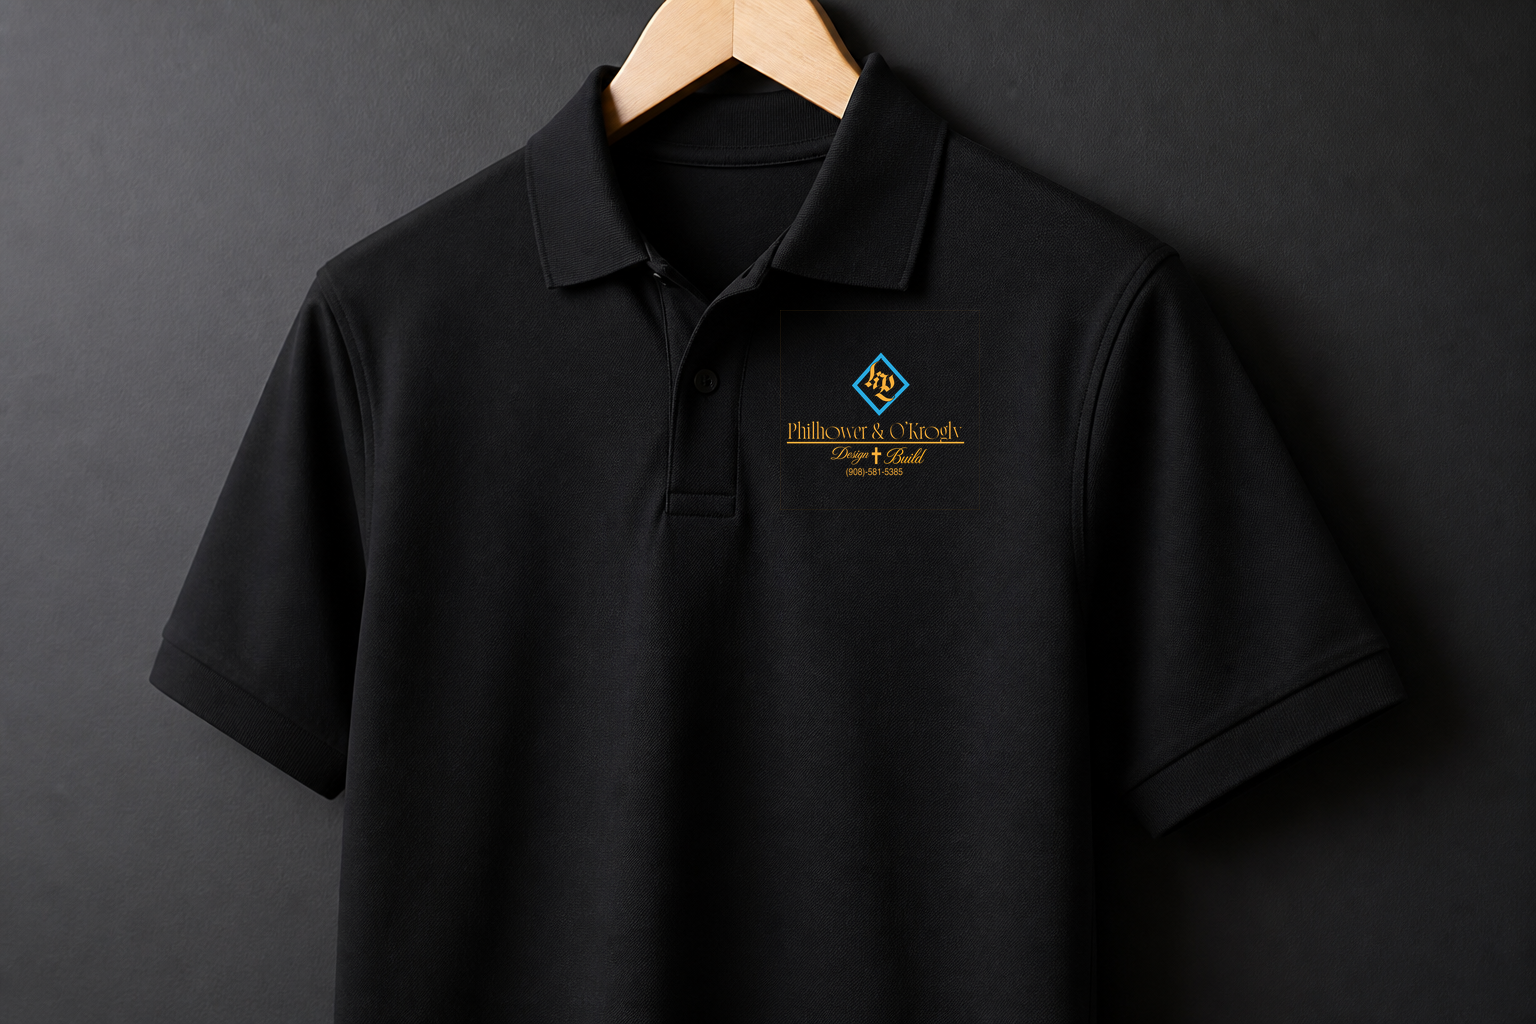
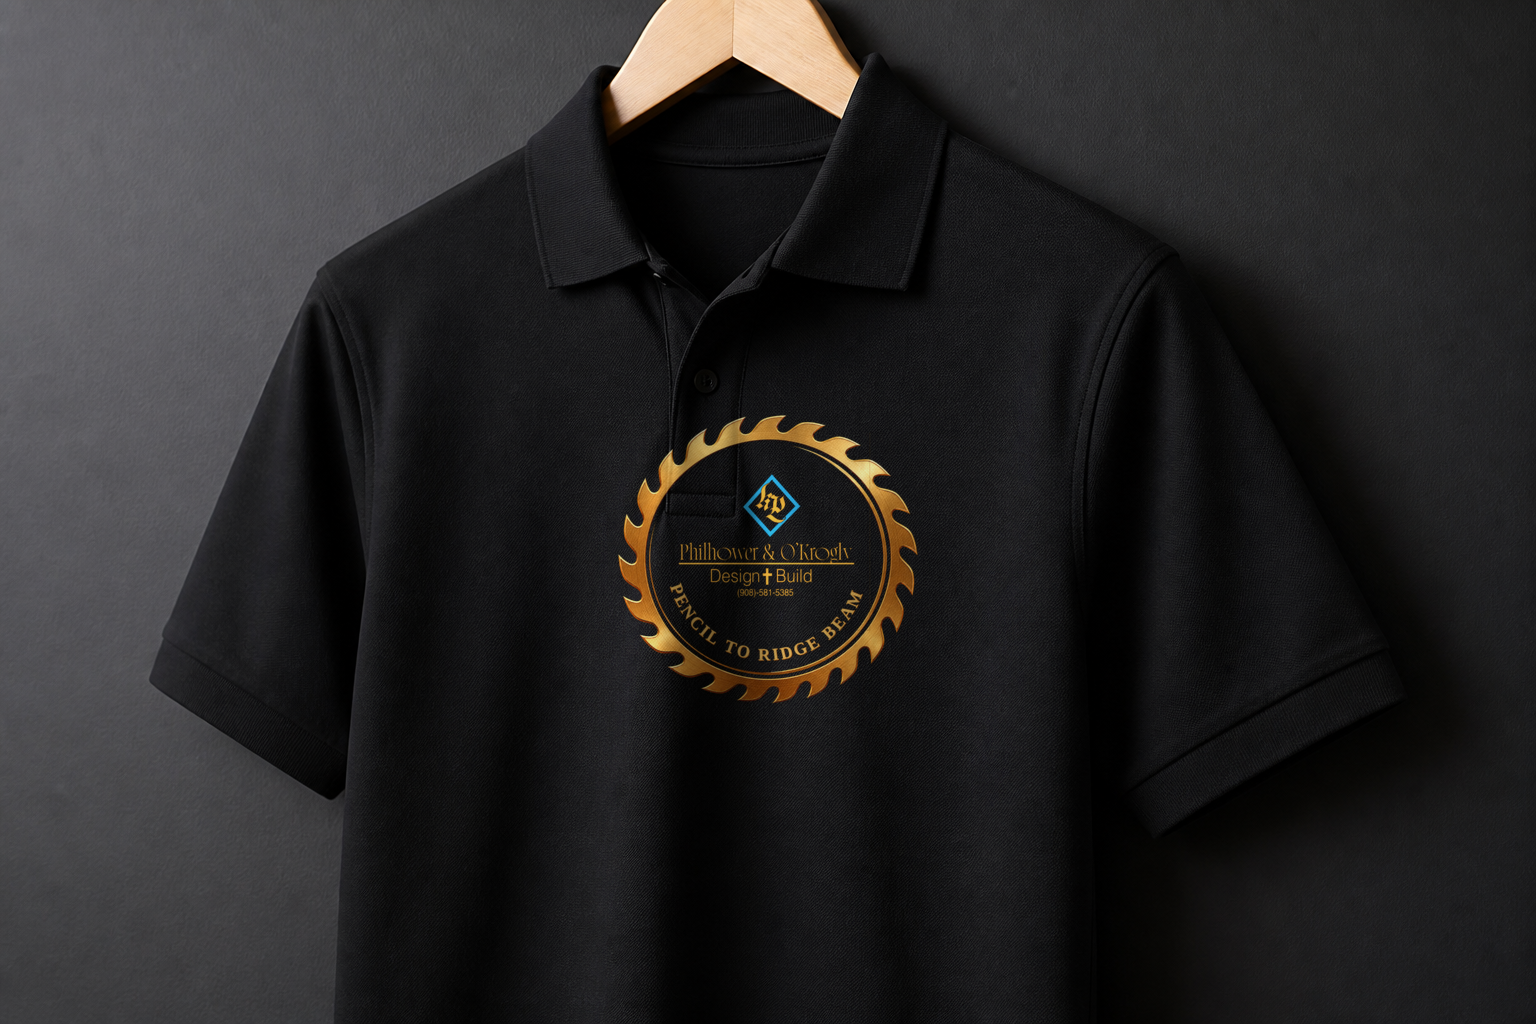
Put Pencil to ridge beam on the Philhower & O’Krogly lockup.
The Hills saw blade frames a larger embroidery stack, the tagline runs the inner ring, and the same file is centered on the polo, van, yard sign, cards, and magnet.

Changed region(s): [[0.4062, 0.3438, 0.625, 0.6875]]

diff --git a/dphilhower-studio-wp/preview/work/philhower-okrogly/index.html b/dphilhower-studio-wp/preview/work/philhower-okrogly/index.html
@@ -4,7 +4,7 @@
   <meta charset="utf-8">
   <meta name="viewport" content="width=device-width, initial-scale=1">
   <title>Philhower &amp; O’Krogly — D Philhower Studio</title>
-  <meta name="description" content="Philhower &amp; O’Krogly 2025 embroidery lockup by D Philhower Studio: Design + Build, polo, van, yard sign, and magnet.">
+  <meta name="description" content="Philhower &amp; O’Krogly Design + Build by D Philhower Studio: Hills saw-blade lockup, tagline Pencil to ridge beam, polo, van, yard sign, and magnet.">
   <link rel="icon" href="../../img/favicon.svg" type="image/svg+xml">
   <link rel="preconnect" href="https://fonts.googleapis.com">
   <link rel="preconnect" href="https://fonts.gstatic.com" crossorigin>
@@ -28,10 +28,10 @@
     <header class="page-hero">
       <p class="section-label">Identity</p>
       <h1>Philhower &amp; O’Krogly</h1>
-      <p>The 2025 embroidery is the lockup</p>
+      <p>Pencil to ridge beam</p>
     </header>
     <div class="case-hero">
-      <img src="../../img/pok-hero.png" alt="Official 2025 Philhower &amp; O’Krogly embroidery: gold gothic mark, Design + Build, (908)-581-5385" width="1536" height="1024">
+      <img src="../../img/pok-hero.png" alt="Philhower &amp; O’Krogly lockup: Hills saw blade, Design + Build embroidery, tagline Pencil to ridge beam, (908)-581-5385" width="1536" height="1024">
     </div>
     <article class="case-body">
       <ul class="case-meta">
@@ -41,34 +41,34 @@
         <li><strong>Place</strong><br>Northern New Jersey</li>
       </ul>
       <div class="entry-content">
-        <p>The mark that goes on the shirt is the mark. Gothic gold in a blue diamond, Philhower &amp; O’Krogly in gold serif, Design + Build in the same formal script as The Hills, (908)-581-5385. That is the 2025 embroidery file — one lockup, used as the logo, not redrawn for the van or the lawn.</p>
-        <p>Black is the field so gold thread reads on a polo. Blue is only the diamond. Hazard orange would make it a cone. The phone is in the lockup because a design-build crew is called, not scanned.</p>
+        <p>The Hills saw blade is the tool. Inside it: the 2025 embroidery — gothic gold in a blue diamond, Philhower &amp; O’Krogly in gold serif, Design + Build in the Hills script, (908)-581-5385. Along the inner ring, the line the crew has to live with: Pencil to ridge beam.</p>
+        <p>One lockup. Polo, van, yard, card, fridge. Black field so gold reads. Blue is only the diamond. The phone stays in the mark because a design-build crew is called, not scanned.</p>
       </div>
     </article>
     <section class="brand-kit">
       <p class="section-label">Print system</p>
       <h2 class="section-title">One lockup, five scales</h2>
-      <p class="section-copy">Embroidery first. Then the van, the yard, the card, and the fridge — the same file, never a second logo.</p>
+      <p class="section-copy">The blade, the stitch, the tagline. Same file on the shirt, the van, the lawn, the card, and the fridge.</p>
       <div class="print-system">
         <figure>
-          <img src="../../img/pok-print-shirt.png" alt="Black polo with the official 2025 Philhower &amp; O’Krogly embroidery on the chest" width="1536" height="1024">
-          <figcaption><strong>Polo</strong> The reason the file exists. Gold thread and a blue diamond on black piqué, left chest, no redraw.</figcaption>
+          <img src="../../img/pok-print-shirt.png" alt="Black polo with the Philhower &amp; O’Krogly saw-blade lockup centered on the chest" width="1536" height="1024">
+          <figcaption><strong>Polo</strong> Center chest. Gold stitch in the Hills blade. Pencil to ridge beam on the ring.</figcaption>
         </figure>
         <figure>
-          <img src="../../img/pok-print-van.png" alt="Matte black van with the official Philhower &amp; O’Krogly embroidery lockup on the side" width="1536" height="1024">
-          <figcaption><strong>Van</strong> The same square lockup, vehicle scale. Matte black, not hazard orange.</figcaption>
+          <img src="../../img/pok-print-van.png" alt="Matte black van with the Philhower &amp; O’Krogly saw-blade lockup on the side" width="1536" height="1024">
+          <figcaption><strong>Van</strong> Same circular lockup, vehicle scale. Matte black, not hazard orange.</figcaption>
         </figure>
         <figure>
-          <img src="../../img/pok-print-yard.png" alt="Black yard sign with the official Philhower &amp; O’Krogly embroidery lockup" width="1536" height="1024">
-          <figcaption><strong>Yard sign</strong> The embroidery, lawn scale. Readable from the curb without a stock “we’re working here” banner.</figcaption>
+          <img src="../../img/pok-print-yard.png" alt="Black yard sign with the Philhower &amp; O’Krogly saw-blade lockup" width="1536" height="1024">
+          <figcaption><strong>Yard sign</strong> The lockup, lawn scale. Readable from the curb without a stock banner.</figcaption>
         </figure>
         <figure>
-          <img src="../../img/pok-print-card.png" alt="Black business cards with the official Philhower &amp; O’Krogly embroidery lockup" width="1536" height="1024">
-          <figcaption><strong>Cards</strong> Black stock, the uploaded lockup. The 908 number is already in the mark.</figcaption>
+          <img src="../../img/pok-print-card.png" alt="Black business cards with the Philhower &amp; O’Krogly saw-blade lockup" width="1536" height="1024">
+          <figcaption><strong>Cards</strong> Black stock. Blade, stitch, tagline, and the 908 number already in the mark.</figcaption>
         </figure>
         <figure>
-          <img src="../../img/pok-print-magnet.png" alt="Fridge magnet with the official Philhower &amp; O’Krogly embroidery lockup" width="1536" height="1024">
-          <figcaption><strong>Fridge magnet</strong> The 2am number has to live in the kitchen. Same embroidery, magnet scale.</figcaption>
+          <img src="../../img/pok-print-magnet.png" alt="Fridge magnet with the Philhower &amp; O’Krogly saw-blade lockup" width="1536" height="1024">
+          <figcaption><strong>Fridge magnet</strong> The 2am number lives in the kitchen. Same lockup, magnet scale.</figcaption>
         </figure>
       </div>
     </section>
@@ -97,7 +97,7 @@
         <p class="anthem-kicker">Bridge</p>
         <p class="anthem-verse">Not two companies shaking hands on Friday.<br>One crew. One mark. The number on the shirt.</p>
         <p class="anthem-kicker">Tag</p>
-        <p class="anthem-tag">Philhower &amp; O’Krogly · Design + Build · (908)-581-5385</p>
+        <p class="anthem-tag">Philhower &amp; O’Krogly · Pencil to ridge beam · (908)-581-5385</p>
       </div>
       <div class="anthem-cuts">
         <article>

diff --git a/dphilhower-studio-wp/preview/work/index.html b/dphilhower-studio-wp/preview/work/index.html
@@ -65,8 +65,8 @@
           <div class="work-meta"><h3>Magic Buds</h3><p>Sleep without the circus</p></div>
         </a>
         <a class="work-item" href="../work/philhower-okrogly/index.html">
-          <img src="../img/pok-hero.png" alt="Official 2025 Philhower &amp; O’Krogly embroidery lockup" width="1536" height="1024">
-          <div class="work-meta"><h3>Philhower &amp; O’Krogly</h3><p>The 2025 embroidery is the lockup</p></div>
+          <img src="../img/pok-hero.png" alt="Philhower &amp; O’Krogly saw-blade lockup: Pencil to ridge beam" width="1536" height="1024">
+          <div class="work-meta"><h3>Philhower &amp; O’Krogly</h3><p>Pencil to ridge beam</p></div>
         </a>
         <a class="work-item" href="../work/cafe-robust/index.html">
           <img src="../img/cafe-robust-hero.png" alt="Cafe Robust chalkboard menu" width="1536" height="1024">

diff --git a/dphilhower-studio-wp/preview/index.html b/dphilhower-studio-wp/preview/index.html
@@ -95,10 +95,10 @@
           </div>
         </a>
         <a class="work-item" href="work/philhower-okrogly/index.html">
-          <img src="img/pok-hero.png" alt="Official 2025 Philhower &amp; O’Krogly embroidery lockup" width="1536" height="1024">
+          <img src="img/pok-hero.png" alt="Philhower &amp; O’Krogly saw-blade lockup: Pencil to ridge beam" width="1536" height="1024">
           <div class="work-meta">
             <h3>Philhower &amp; O’Krogly</h3>
-            <p>The 2025 embroidery is the lockup</p>
+            <p>Pencil to ridge beam</p>
           </div>
         </a>
         <a class="work-item" href="work/cafe-robust/index.html">

diff --git a/dphilhower-studio-wp/theme/dphilhower-studio/style.css b/dphilhower-studio-wp/theme/dphilhower-studio/style.css
@@ -4,7 +4,7 @@ Theme URI: https://dphilhower.com
 Author: D Philhower Studio
 Author URI: https://dphilhower.com
 Description: Custom graphic design studio theme for D Philhower Studio at dphilhower.com — portfolio, services, about, and project inquiries. Activate the theme to load demo pages and work samples.
-Version: 1.0.14
+Version: 1.0.15
 Requires at least: 6.4
 Tested up to: 6.8
 Requires PHP: 7.4

diff --git a/dphilhower-studio-wp/theme/dphilhower-studio/inc/brand-kits.php b/dphilhower-studio-wp/theme/dphilhower-studio/inc/brand-kits.php
@@ -289,37 +289,37 @@ function dps_brand_kits() {
 		'philhower-okrogly'        => array(
 			'label'  => __( 'Print system', 'dphilhower-studio' ),
 			'title'  => __( 'One lockup, five scales', 'dphilhower-studio' ),
-			'intro'  => __( 'The 2025 embroidery is the lockup: gothic gold in a blue diamond, Design + Build in the Hills script, (908)-581-5385. Polo, van, yard, card, and fridge use that file — one logo, never a second drawing of the letters.', 'dphilhower-studio' ),
+			'intro'  => __( 'The Hills saw blade is the tool. The 2025 embroidery sits inside it, and Pencil to ridge beam runs the inner ring. Polo, van, yard, card, and fridge use that file — one lockup.', 'dphilhower-studio' ),
 			'pieces' => array(
 				array(
 					'file'    => 'pok-print-shirt.png',
-					'alt'     => __( 'Black polo with the official 2025 Philhower & O’Krogly embroidery on the chest', 'dphilhower-studio' ),
+					'alt'     => __( 'Black polo with the Philhower & O’Krogly saw-blade lockup centered on the chest', 'dphilhower-studio' ),
 					'heading' => __( 'Polo', 'dphilhower-studio' ),
-					'story'   => __( 'The reason the file exists. Gold thread and a blue diamond on black piqué, left chest, no redraw.', 'dphilhower-studio' ),
+					'story'   => __( 'Center chest. Gold stitch in the Hills blade. Pencil to ridge beam on the ring.', 'dphilhower-studio' ),
 				),
 				array(
 					'file'    => 'pok-print-van.png',
-					'alt'     => __( 'Matte black van with the official Philhower & O’Krogly embroidery lockup on the side', 'dphilhower-studio' ),
+					'alt'     => __( 'Matte black van with the Philhower & O’Krogly saw-blade lockup on the side', 'dphilhower-studio' ),
 					'heading' => __( 'Van', 'dphilhower-studio' ),
-					'story'   => __( 'The same square lockup, vehicle scale. Matte black, not hazard orange.', 'dphilhower-studio' ),
+					'story'   => __( 'Same circular lockup, vehicle scale. Matte black, not hazard orange.', 'dphilhower-studio' ),
 				),
 				array(
 					'file'    => 'pok-print-yard.png',
-					'alt'     => __( 'Black yard sign with the official Philhower & O’Krogly embroidery lockup', 'dphilhower-studio' ),
+					'alt'     => __( 'Black yard sign with the Philhower & O’Krogly saw-blade lockup', 'dphilhower-studio' ),
 					'heading' => __( 'Yard sign', 'dphilhower-studio' ),
-					'story'   => __( 'The embroidery, lawn scale. Readable from the curb without a stock “we’re working here” banner.', 'dphilhower-studio' ),
+					'story'   => __( 'The lockup, lawn scale. Readable from the curb without a stock banner.', 'dphilhower-studio' ),
 				),
 				array(
 					'file'    => 'pok-print-card.png',
-					'alt'     => __( 'Black business cards with the official Philhower & O’Krogly embroidery lockup', 'dphilhower-studio' ),
+					'alt'     => __( 'Black business cards with the Philhower & O’Krogly saw-blade lockup', 'dphilhower-studio' ),
 					'heading' => __( 'Cards', 'dphilhower-studio' ),
-					'story'   => __( 'Black stock, the uploaded lockup. The 908 number is already in the mark.', 'dphilhower-studio' ),
+					'story'   => __( 'Black stock. Blade, stitch, tagline, and the 908 number already in the mark.', 'dphilhower-studio' ),
 				),
 				array(
 					'file'    => 'pok-print-magnet.png',
-					'alt'     => __( 'Fridge magnet with the official Philhower & O’Krogly embroidery lockup', 'dphilhower-studio' ),
+					'alt'     => __( 'Fridge magnet with the Philhower & O’Krogly saw-blade lockup', 'dphilhower-studio' ),
 					'heading' => __( 'Fridge magnet', 'dphilhower-studio' ),
-					'story'   => __( 'The 2am number has to live in the kitchen. Same embroidery, magnet scale.', 'dphilhower-studio' ),
+					'story'   => __( 'The 2am number lives in the kitchen. Same lockup, magnet scale.', 'dphilhower-studio' ),
 				),
 			),
 		),

diff --git a/dphilhower-studio-wp/theme/dphilhower-studio/inc/setup-content.php b/dphilhower-studio-wp/theme/dphilhower-studio/inc/setup-content.php
@@ -318,13 +318,13 @@ function dps_seed_demo_content( $force = false ) {
 			'slug'     => 'philhower-okrogly',
 			'title'    => 'Philhower & O’Krogly',
 			'image'    => 'pok-hero.png',
-			'excerpt'  => 'The 2025 embroidery is the lockup',
-			'subtitle' => 'The 2025 embroidery is the lockup',
+			'excerpt'  => 'Pencil to ridge beam',
+			'subtitle' => 'Pencil to ridge beam',
 			'client'   => 'design-build',
 			'services' => 'Identity · embroidery · vehicle · signage',
 			'year'     => '2025',
 			'location' => 'Northern New Jersey',
-			'content'  => '<p>The mark that goes on the shirt is the mark. Gothic gold in a blue diamond, Philhower &amp; O’Krogly in gold serif, Design + Build in the same formal script as The Hills, (908)-581-5385. That is the 2025 embroidery file — one lockup, used as the logo, not redrawn for the van or the lawn.</p><p>Black is the field so gold thread reads on a polo. Blue is only the diamond. Hazard orange would make it a cone. The phone is in the lockup because a design-build crew is called, not scanned.</p>',
+			'content'  => '<p>The Hills saw blade is the tool. Inside it: the 2025 embroidery — gothic gold in a blue diamond, Philhower &amp; O’Krogly in gold serif, Design + Build in the Hills script, (908)-581-5385. Along the inner ring, the line the crew has to live with: Pencil to ridge beam.</p><p>One lockup. Polo, van, yard, card, fridge. Black field so gold reads. Blue is only the diamond. The phone stays in the mark because a design-build crew is called, not scanned.</p>',
 		),
 		array(
 			'slug'     => 'cafe-robust',
@@ -459,7 +459,7 @@ function dps_seed_demo_content( $force = false ) {
 	flush_rewrite_rules();
 
 	update_option( 'dps_demo_seeded', DPS_VERSION );
-	update_option( 'dps_images_version', 'brands-print-7' );
+	update_option( 'dps_images_version', 'brands-print-8' );
 	return true;
 }
 

diff --git a/dphilhower-studio-wp/theme/dphilhower-studio/functions.php b/dphilhower-studio-wp/theme/dphilhower-studio/functions.php
@@ -9,7 +9,7 @@ if ( ! defined( 'ABSPATH' ) ) {
 	exit;
 }
 
-define( 'DPS_VERSION', '1.0.14' );
+define( 'DPS_VERSION', '1.0.15' );
 define( 'DPS_DIR', get_template_directory() );
 define( 'DPS_URI', get_template_directory_uri() );
 
@@ -164,14 +164,14 @@ function dps_maybe_upgrade_images() {
 	if ( 'dphilhower-studio' !== get_stylesheet() ) {
 		return;
 	}
-	if ( get_option( 'dps_images_version' ) === 'brands-print-7' ) {
+	if ( get_option( 'dps_images_version' ) === 'brands-print-8' ) {
 		return;
 	}
 	if ( ! get_option( 'dps_demo_seeded' ) ) {
 		return;
 	}
 	dps_seed_demo_content( true );
-	update_option( 'dps_images_version', 'brands-print-7' );
+	update_option( 'dps_images_version', 'brands-print-8' );
 }
 
 /**

diff --git a/dphilhower-studio-wp/theme/dphilhower-studio/template-parts/anthem-pok.php b/dphilhower-studio-wp/theme/dphilhower-studio/template-parts/anthem-pok.php
@@ -51,7 +51,7 @@ if ( ! defined( 'ABSPATH' ) ) {
 		</p>
 
 		<p class="anthem-kicker"><?php esc_html_e( 'Tag', 'dphilhower-studio' ); ?></p>
-		<p class="anthem-tag">Philhower &amp; O’Krogly · Design + Build · (908)-581-5385</p>
+		<p class="anthem-tag">Philhower &amp; O’Krogly · Pencil to ridge beam · (908)-581-5385</p>
 	</div>
 
 	<div class="anthem-cuts">
